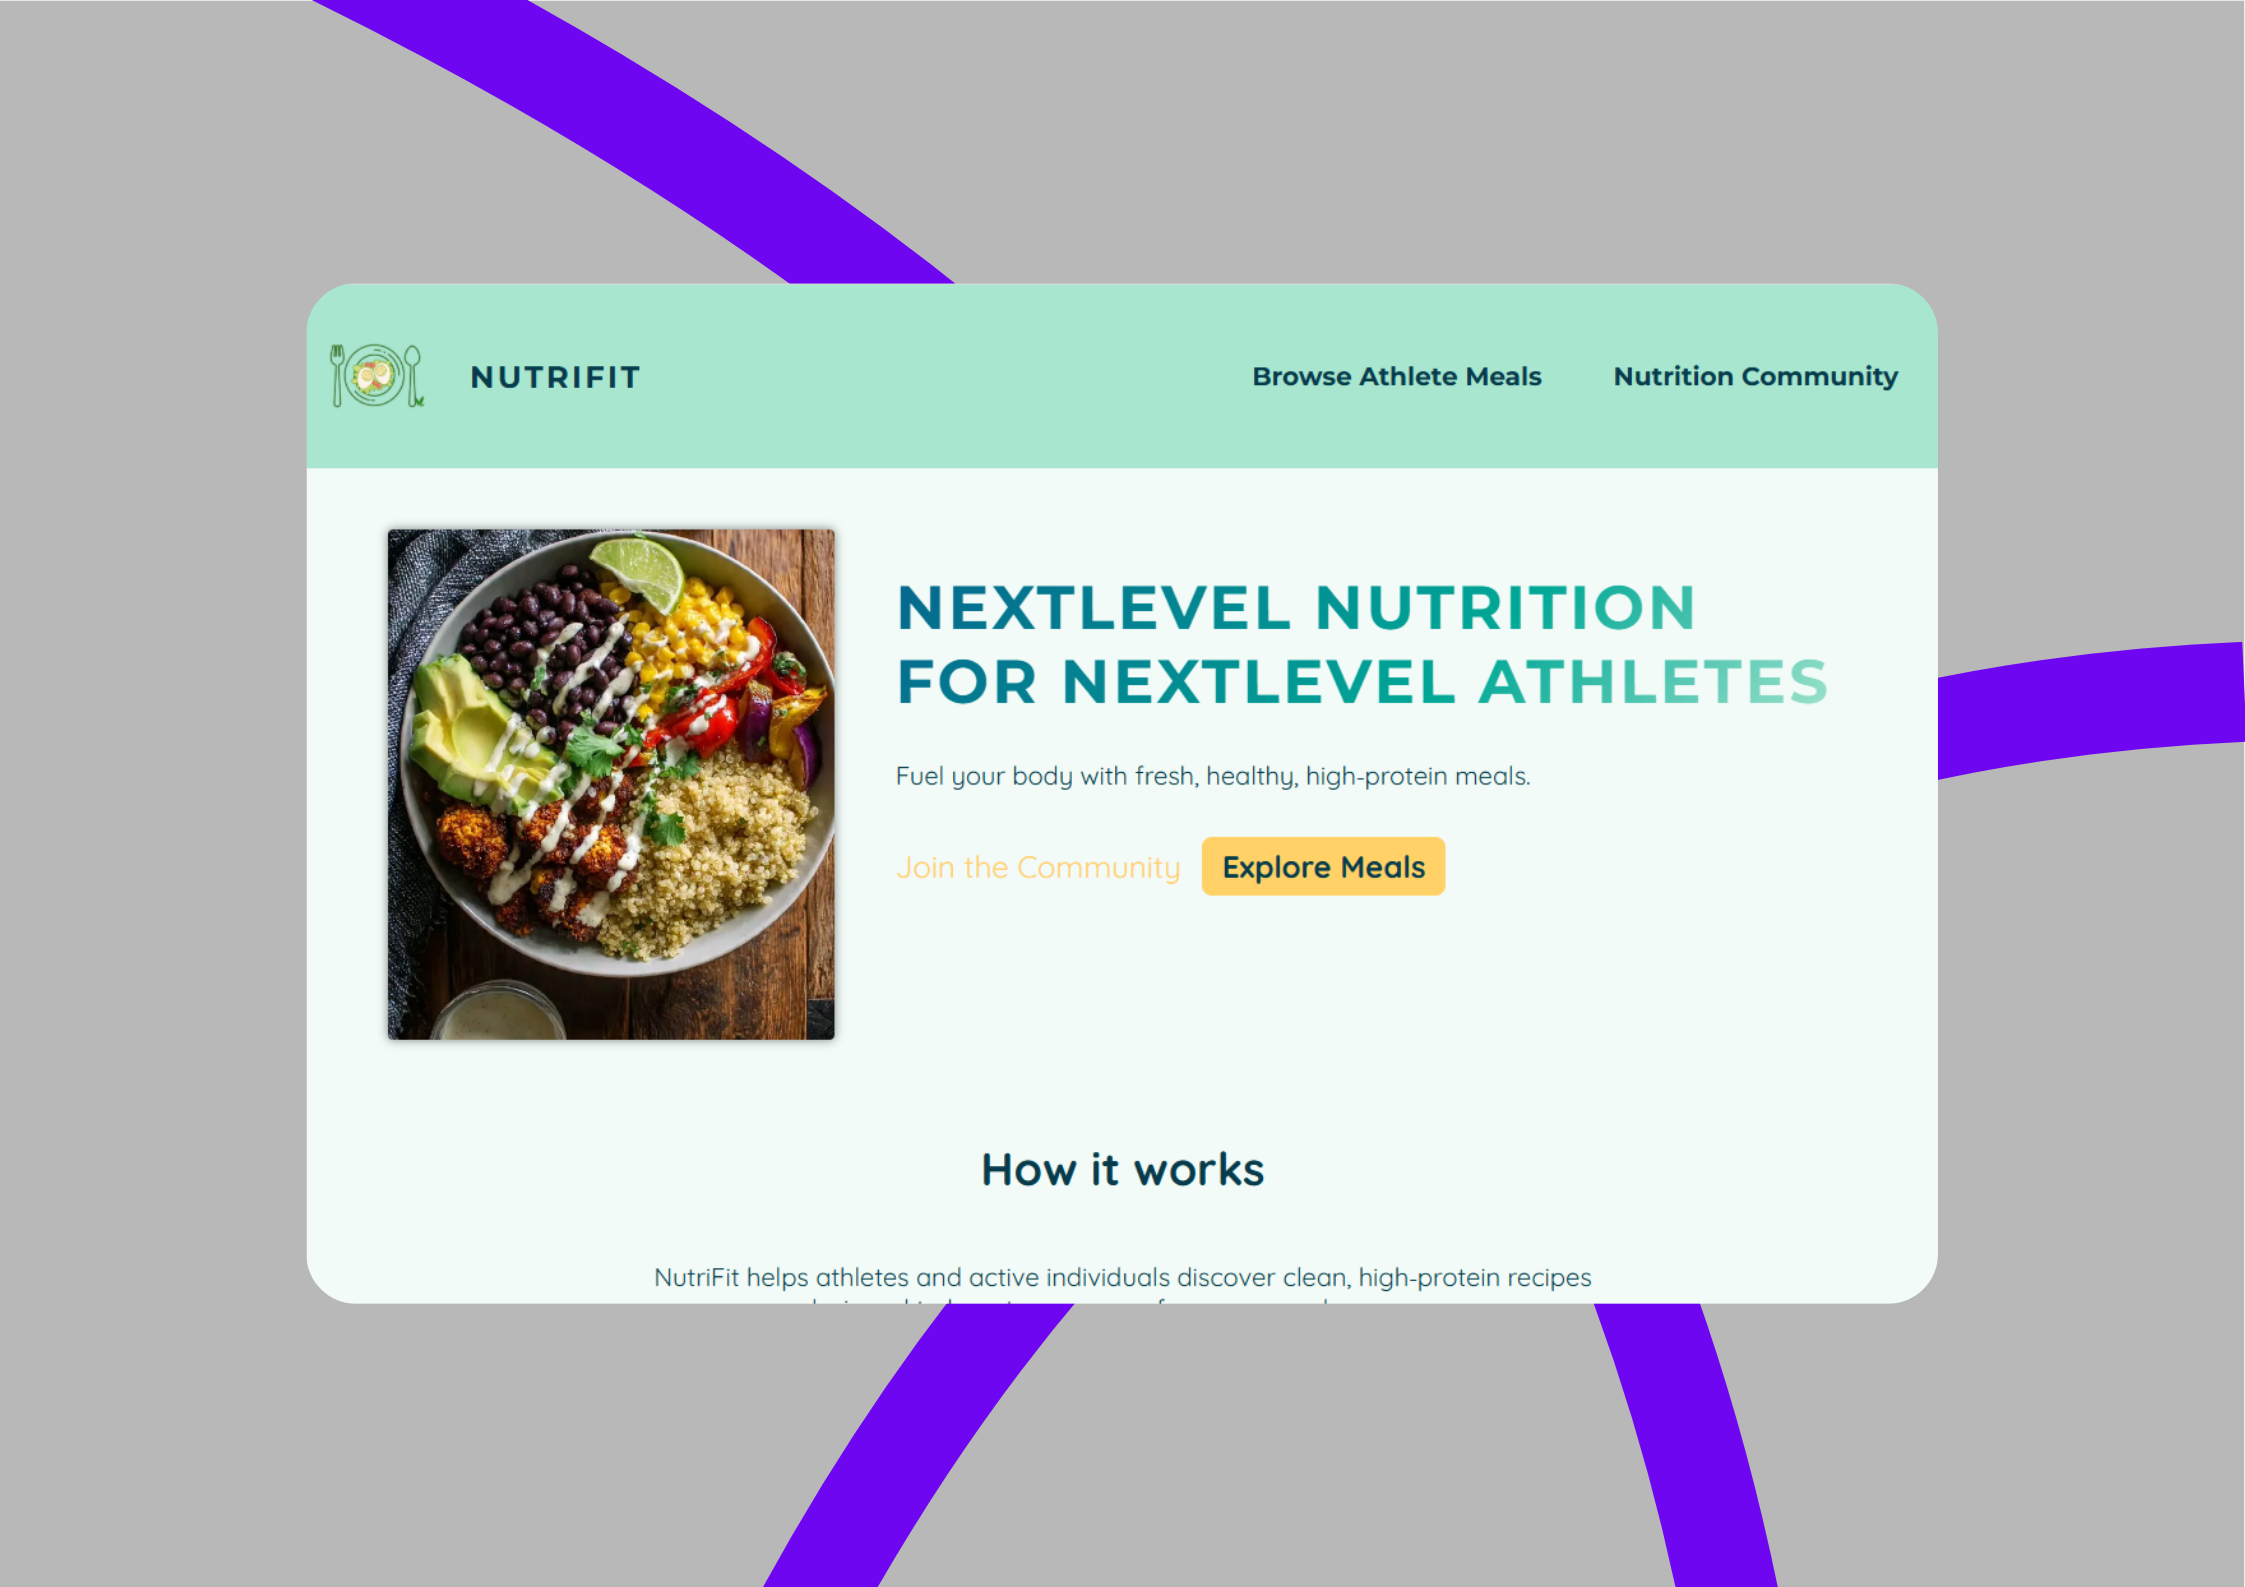
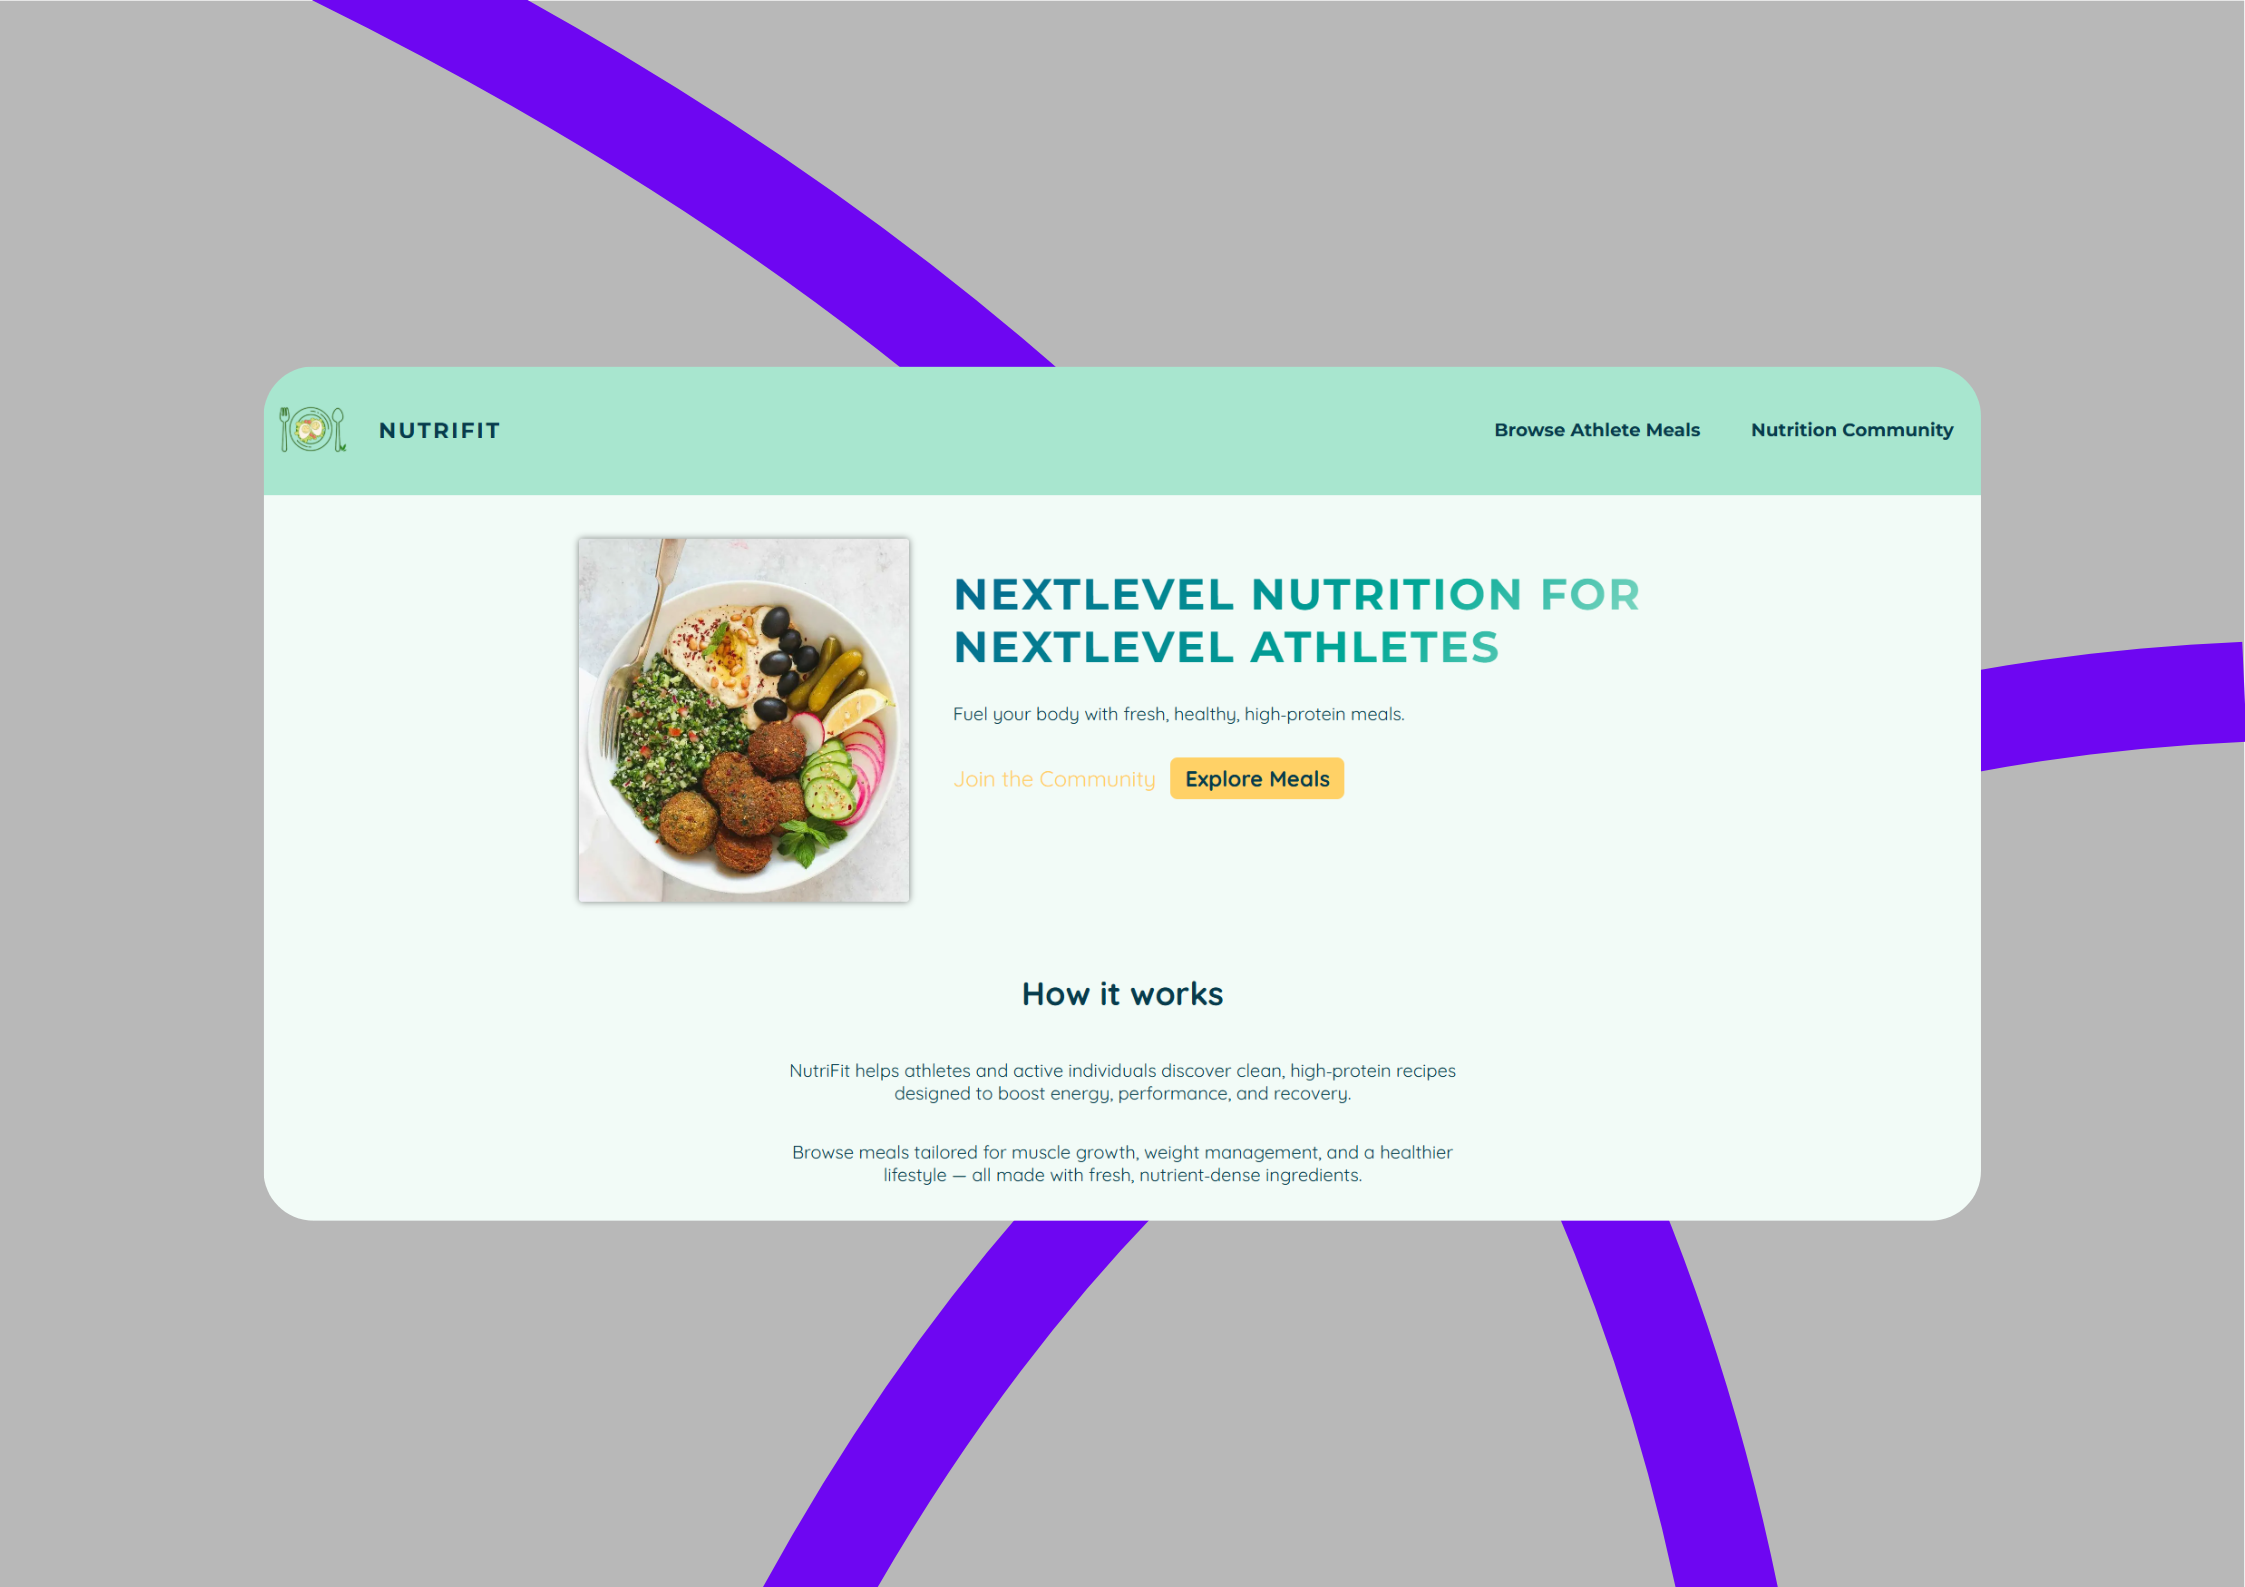
add insightboard project

Changed region(s): [[0.0935, 0.1544, 0.9042, 0.8336]]

diff --git a/src/data/projects.ts b/src/data/projects.ts
@@ -1,4 +1,6 @@
-import secondProjectImg from '../assets/secondProjectImg.avif';
+import insightboardFullImg from '../assets/insightboardFull.png';
+import insightboardMobileImg1 from '../assets/insightboardMob1.png';
+import insightboardMobileImg2 from '../assets/insightboardMob2.png';
 import nutriFitFullImg from '../assets/nutrifitFull.png';
 import nutriFitMobileImg1 from '../assets/nutrifitMob1.png';
 import nutriFitMobileImg2 from '../assets/nutrifitMob2.png';
@@ -99,22 +101,73 @@ export const projects: projectType[] = [
   },
   {
     id: 2,
-    name: 'Taskflow',
-    image: secondProjectImg,
+    name: 'Insightboard',
+    url: 'https://insightboard-zeta.vercel.app/dashboard',
+    githubUrl: 'https://github.com/sepezh/InsightBoard',
+    image: insightboardFullImg,
+    imagesMobile: [insightboardMobileImg1, insightboardMobileImg2],
     description:
-      'Task management system with drag-and-drop, real-time collaboration, and responsive layout.',
+      'A modern analytics dashboard built with Next.js and TypeScript. It delivers a polished, responsive interface for exploring metrics, trends, and time-series data through interactive cards and charts.',
     about:
-      'Lorem ipsum dolor sit amet, consectetur adipiscing elit, sed do eiusmod tempor incididunt ut labore et dolore magna aliqua. Ut enim ad minim veniam, quis nostrud exercitation ullamco laboris nisi ut aliquip ex ea commodo consequat. Duis aute irure dolor in reprehenderit in voluptate velit esse cillum dolore eu fugiat nulla pariatur. Excepteur sint occaecat cupidatat non proident, sunt in culpa qui officia deserunt mollit anim id est laborum.',
-    // features:
-    //   'Lorem ipsum dolor sit amet, consectetur adipiscing elit, sed do eiusmod tempor incididunt ut labore et dolore magna aliqua. Ut enim ad minim veniam, quis nostrud exercitation ullamco laboris nisi ut aliquip ex ea commodo consequat. Duis aute irure dolor in reprehenderit in voluptate velit esse cillum dolore eu fugiat nulla pariatur. Excepteur sint occaecat cupidatat non proident, sunt in culpa qui officia deserunt mollit anim id est laborum.',
+      'InsightBoard provides a centralized platform for exploring and analyzing key metrics and trends. It addresses the common challenge of visualizing complex data in an intuitive, interactive way that supports data-driven decision-making. The project emphasizes a clean, responsive experience and efficient data handling that help users quickly discover insights across devices. By streamlining data exploration and visualization, InsightBoard demonstrates a commitment to usability and performance-driven design.',
+    features: [
+      {
+        id: 1,
+        key: 'Responsive Analytics Dashboard',
+        value:
+          'Browse a curated collection of metrics and trends through interactive charts',
+      },
+      {
+        id: 2,
+        key: 'Advanced Filtering',
+        value:
+          'Filter analytics data by date range, category, or metric type for deeper exploration',
+      },
+      {
+        id: 3,
+        key: 'Dashboard Widgets',
+        value:
+          'Reusable dashboard components displaying key indicators such as totals, growth rates, and summaries',
+      },
+      {
+        id: 4,
+        key: 'Optimized Rendering',
+        value:
+          'Lazy-loaded chart components for performance and smooth interactions even with large datasets',
+      },
+      {
+        id: 5,
+        key: 'Theme Customization',
+        value:
+          'Light and dark theme support to improve usability in different environments',
+      },
+      {
+        id: 6,
+        key: 'State Management',
+        value: 'Redux Toolkit for filters and selected metrics',
+      },
+    ],
     chanllenges: [
-      'Lorem ipsum dolor sit amet, consectetur adipiscing elit, sed do eiusmod tempor incididunt ut labore et dolore magna aliqua. Ut enim ad minim veniam, quis nostrud exercitation ullamco laboris nisi ut aliquip ex ea commodo consequat. Duis aute irure dolor in reprehenderit in voluptate velit esse cillum dolore eu fugiat nulla pariatur. Excepteur sint occaecat cupidatat non proident, sunt in culpa qui officia deserunt mollit anim id est laborum.',
+      'Implementing responsive chart interactions required coordinating multiple libraries while keeping performance optimal. The solution was to use Recharts with lazy loading and skeleton components for better user experience.',
+      'Managing state for filters and selected metrics across components presented edge cases when updating multiple charts simultaneously. A centralized Redux slice now handles all analytics state, preventing conflicts without user intervention.',
     ],
     results: [
-      'Lorem ipsum dolor sit amet, consectetur adipiscing elit, sed do eiusmod tempor incididunt ut labore et dolore magna aliqua. Ut enim ad minim veniam, quis nostrud exercitation ullamco laboris nisi ut aliquip ex ea commodo consequat. Duis aute irure dolor in reprehenderit in voluptate velit esse cillum dolore eu fugiat nulla pariatur. Excepteur sint occaecat cupidatat non proident, sunt in culpa qui officia deserunt mollit anim id est laborum.',
+      'Delivered a fully responsive analytics platform with interactive charts and efficient data handling.',
+      'Enabled data-driven insights, increasing usability through intuitive visualizations.',
+      'Optimized page load times using lazy loading and modern React features.',
+      'Demonstrated proficiency in modern Next.js features and state management patterns.',
+    ],
+    techStack: [
+      'Next.js 16',
+      'React 19',
+      'TypeScript',
+      'Tailwind CSS 4',
+      'Recharts (data visualization)',
+      'Redux Toolkit (state management)',
+      'React Datepicker',
     ],
     client: 'Personal Project',
-    year: 2020,
+    year: 2026,
     role: 'Software Developer',
     variant: 'span3',
   },
@@ -172,7 +225,7 @@ export const projects: projectType[] = [
       'JavaScript (ES6+)',
       'jQuery',
       'SASS/SCSS for styling workflow',
-      'Gulp for asset automation'
+      'Gulp for asset automation',
     ],
     client: 'Personal Project',
     year: 2017,

diff --git a/src/components/ui/Button/Button.module.css b/src/components/ui/Button/Button.module.css
@@ -12,11 +12,7 @@
   color: var(--bg-color);
 
   &:hover,
-  &:focus,
-  &:focus-within,
-  &:focus-visible,
-  &:active,
-  &:target {
+  &:active {
     background-color: var(--color-brand-purple-hovered);
     color: var(--bg-color);
   }
@@ -28,11 +24,7 @@
   border: 1px solid var(--text-color);
 
   &:hover,
-  &:focus,
-  &:focus-within,
-  &:focus-visible,
-  &:active,
-  &:target {
+  &:active {
     background-color: var(--text-color);
     color: var(--bg-color);
   }

diff --git a/src/pages/Contact/contact.module.css b/src/pages/Contact/contact.module.css
@@ -1,6 +1,3 @@
-.contact {
-  height: 80vh;
-}
 .contactItemWrapper {
   display: flex;
   flex-direction: column;
